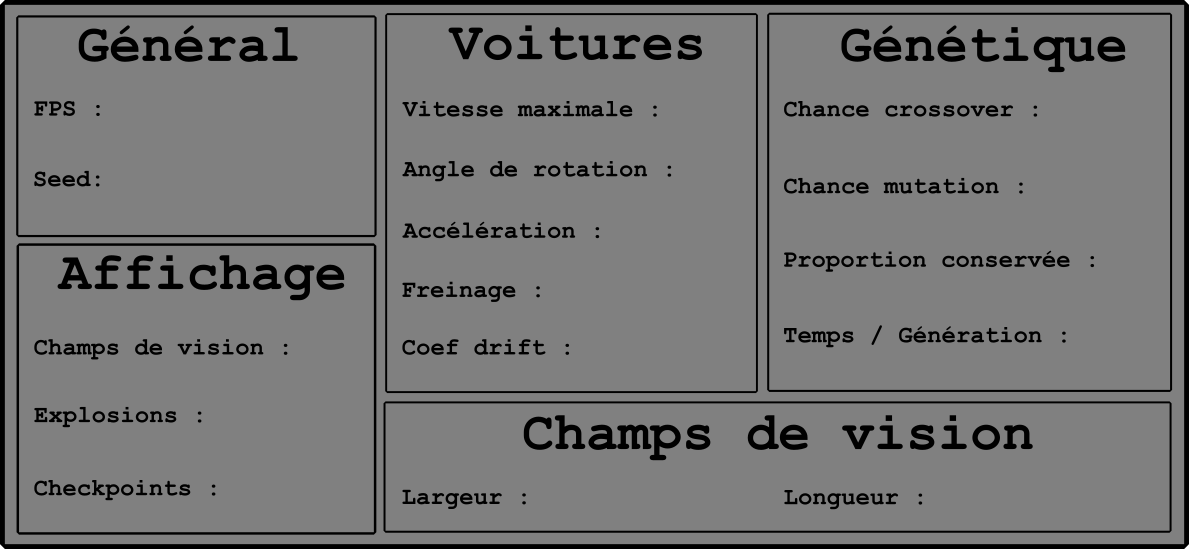
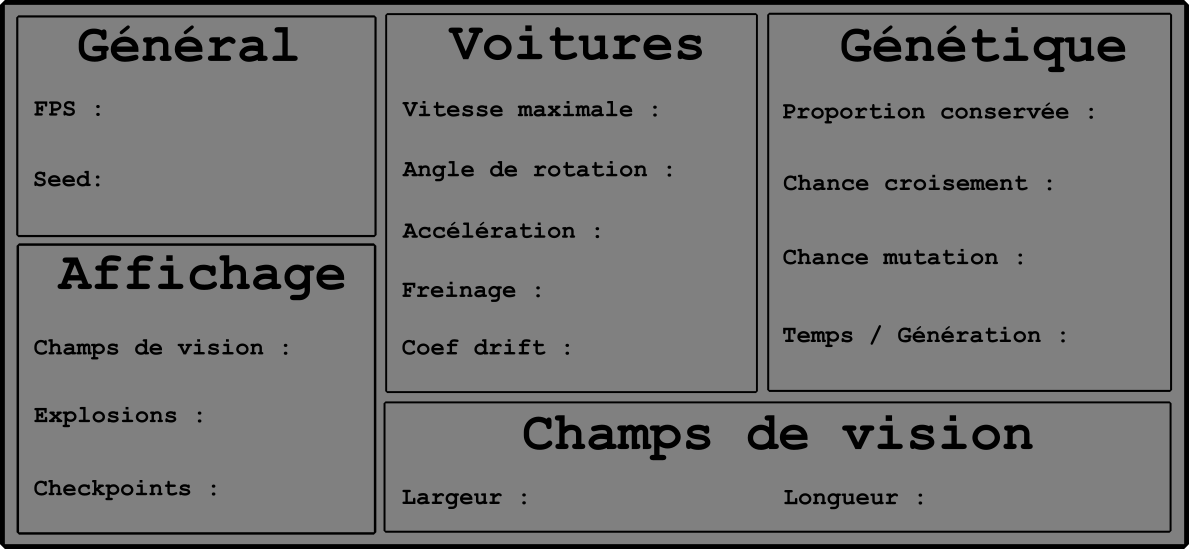
Changed the visual of the genetic parameters of the settings menu

diff --git a/src/menus/settings_menu.py b/src/menus/settings_menu.py
@@ -70,21 +70,21 @@ class Settings:
 
         # Display section
         self.show_cones_button = Button(x=474, y=455, image_name='checkbox', scale=0.1)
-        self.show_explosions_button = Button(x=402, y=530, image_name='checkbox', scale=0.1)
+        self.show_explosions_button = Button(x=401, y=524, image_name='checkbox', scale=0.1)
         self.show_explosions_button.activated = var.SHOW_EXPLOSIONS  # We activate the explosions by default
         self.show_checkpoints_button = Button(x=412, y=597, image_name='checkbox', scale=0.1)
 
         # Car section
-        self.max_speed_button = Button(x=847, y=223, image_name='writing', variable=var.MAX_SPEED, name='MAX_SPEED', scale_x=0.5)
-        self.turn_angle_button = Button(x=864, y=278, image_name='writing', variable=var.TURN_ANGLE, name='TURN_ANGLE', scale_x=0.5)
-        self.acceleration_button = Button(x=791, y=343, image_name='writing', name='ACCELERATION', variable=var.ACCELERATION, scale_x=0.5)
+        self.max_speed_button = Button(x=847, y=222, image_name='writing', variable=var.MAX_SPEED, name='MAX_SPEED', scale_x=0.5)
+        self.turn_angle_button = Button(x=864, y=279, image_name='writing', variable=var.TURN_ANGLE, name='TURN_ANGLE', scale_x=0.5)
+        self.acceleration_button = Button(x=791, y=342, image_name='writing', name='ACCELERATION', variable=var.ACCELERATION, scale_x=0.5)
         self.deceleration_button = Button(x=742, y=402, image_name='writing', name='DECELERATION', variable=var.DECELERATION, scale_x=0.5)
-        self.drift_button = Button(x=777, y=461, image_name='writing', name='DRIFT_FACTOR', variable=var.DRIFT_FACTOR, scale_x=0.5)
+        self.drift_button = Button(x=777, y=460, image_name='writing', name='DRIFT_FACTOR', variable=var.DRIFT_FACTOR, scale_x=0.5)
 
         # Genetic section
-        self.crossover_button = Button(x=1229, y=221, image_name='writing', variable=var.CHANCE_CROSSOVER, name='CHANCE_CROSSOVER', scale_x=0.5)
-        self.mutation_button = Button(x=1222, y=298, image_name='writing', variable=var.CHANCE_MUTATION, name='CHANCE_MUTATION', scale_x=0.5)
-        self.proportion_button = Button(x=1280, y=370, image_name='writing', variable=var.PROPORTION_CARS_KEPT, name='PROPORTION_CARS_KEPT', scale_x=0.5)
+        self.proportion_button = Button(x=1280, y=222, image_name='writing', variable=var.PROPORTION_CARS_KEPT, name='PROPORTION_CARS_KEPT', scale_x=0.5)
+        self.crossover_button = Button(x=1240, y=295, image_name='writing', variable=var.CHANCE_CROSSOVER, name='CHANCE_CROSSOVER', scale_x=0.5)
+        self.mutation_button = Button(x=1222, y=369, image_name='writing', variable=var.CHANCE_MUTATION, name='CHANCE_MUTATION', scale_x=0.5)
         self.time_generation_button = Button(x=1260, y=446, image_name='writing', variable=var.TIME_GENERATION, name='TIME_GENERATION', scale_x=0.5)
 
         # Cone section

diff --git a/README.md b/README.md
@@ -71,28 +71,33 @@ On peut aussi cliquer directement sur les voitures pour afficher leurs paramètr
 ### Paramètres de la simulation
 
 Les paramètres pouvant être modifiés sont les suivants :
-- **FPS** : le nombre d'images par seconde, cela permet d'accélerer ou de ralentir la simulation (sans impact sur le
-résultat final)
-- **Seed** : la graine utilisée pour générer les voitures (si on utilise la même seed sur le même circuit, on obtiendra
-toujours le même résultat)
-- **Champs de vision** : pour afficher les cônes de détections utilisés par les voitures
-- **Explosions** : pour afficher des explosions lorsqu'une voiture touche un mur
-- **Checkpoints** : pour afficher les checkpoints
-- **Vitesse maximale** : pour modifier la vitesse maximale des voitures
-- **Angle de rotation** : pour modifier l'angle de rotation des voitures
-- **Accélération** : pour modifier la puissance de l'accélération des voitures
-- **Freinage** : pour modifier la puissance de freinage des voitures
-- **Coef drift** : pour modifier le coefficient de drift des voitures (un coeficient plus élevé fait glisser les
-voitures)
-- **Chance crossover** : pour modifier la chance de crossover des voitures (plus la valeur est élevée, plus les voitures
-ont de chance de se croiser)
-- **Chance mutation** : pour modifier la chance de mutation des voitures (plus la valeur est élevée, plus les voitures
-ont de chance de muter)
-- **Proportion conservée** : pour modifier la proportion de voitures conservées à l'identique lors de la sélection
-naturelle
-- **Temps / Génération** : pour modifier le temps de la simulation pour une génération (en secondes)
-- **Largeur** : pour modifier la largeur du champ de vision des voitures
-- **Longueur** : pour modifier la longueur du champ de vision des voitures
+- **Paramètres généraux** :
+  - **FPS** : le nombre d'images par seconde, cela permet d'accélerer ou de ralentir la simulation (sans impact sur le
+  résultat final)
+  - **Seed** : la graine utilisée pour générer les voitures (si on utilise la même seed sur le même circuit, on obtiendra
+  toujours le même résultat)
+- **Paramètres d'affichage :**
+  - **Champs de vision** : pour afficher les cônes de détections utilisés par les voitures
+  - **Explosions** : pour afficher des explosions lorsqu'une voiture touche un mur
+  - **Checkpoints** : pour afficher les checkpoints
+- **Paramètres des voitures :**
+  - **Vitesse maximale** : pour modifier la vitesse maximale des voitures
+  - **Angle de rotation** : pour modifier l'angle de rotation des voitures
+  - **Accélération** : pour modifier la puissance de l'accélération des voitures
+  - **Freinage** : pour modifier la puissance de freinage des voitures
+  - **Coef drift** : pour modifier le coefficient de drift des voitures (un coeficient plus élevé fait glisser les
+  voitures)
+- **Paramètres de l'algorithme génétique :**
+  - **Proportion conservée** : pour modifier la proportion de voitures conservées à l'identique lors de la sélection
+  naturelle
+  - **Chance croisement** : pour modifier la chance de croiser des voitures (plus la valeur est élevée, plus les voitures
+  ont de chance d'échanger leurs caractéristiques)
+  - **Chance mutation** : pour modifier la chance de mutation des voitures (plus la valeur est élevée, plus les voitures
+  ont de chance de muter)
+  - **Temps / Génération** : pour modifier le temps de la simulation pour une génération (en secondes)
+- **Paramètres des cônes de vision :**
+  - **Largeur** : pour modifier la largeur du champ de vision des voitures
+  - **Longueur** : pour modifier la longueur du champ de vision des voitures
 
 
 ## Explications des paramètres des voitures :
